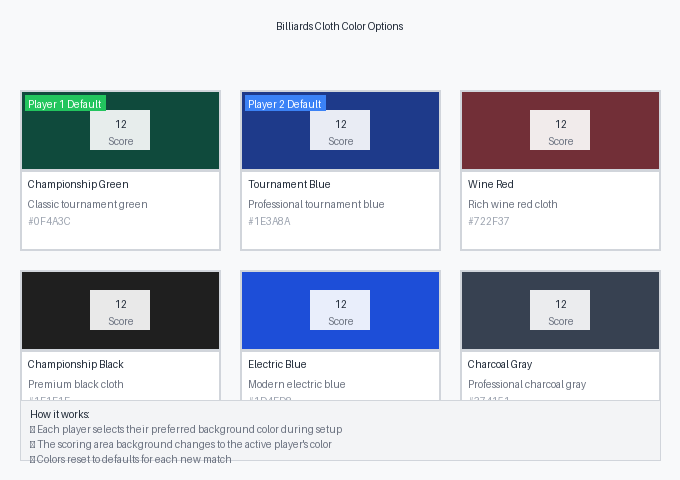
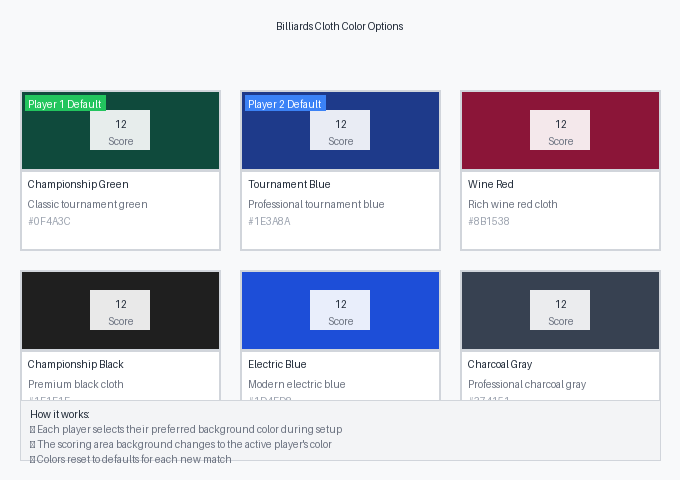
Refine color options to provide a more visually appealing user experience
Updates color values and names in `BILLIARDS_COLORS` and `create_color_swatch.py` to better represent desired hues.

Replit-Commit-Author: Agent
Replit-Commit-Session-Id: 3eaa321e-810c-41b9-8277-ba1a53f38eec
Replit-Commit-Screenshot-Url: https://storage.googleapis.com/screenshot-production-us-central1/dbe2d108-b826-4376-b368-f9c11fb92b15/03f78a05-2989-4302-91f9-ec64860295be.jpg

Changed region(s): [[0.6794, 0.1875, 0.9882, 0.375], [0.6794, 0.4375, 0.7412, 0.4688]]

diff --git a/client/src/components/billiards-color-swatch.tsx b/client/src/components/billiards-color-swatch.tsx
@@ -13,14 +13,14 @@ export const BILLIARDS_COLORS = [
     description: "Professional tournament blue"
   },
   {
-    name: "Burgundy Red",
-    value: "#7C2D12", 
-    description: "Rich burgundy cloth"
+    name: "Wine Red",
+    value: "#8B1538", 
+    description: "Rich wine red cloth"
   },
   {
-    name: "Camel Tan",
-    value: "#A16207",
-    description: "Vintage camel brown"
+    name: "Championship Black",
+    value: "#1F1F1F",
+    description: "Premium black cloth"
   },
   {
     name: "Electric Blue",
@@ -28,9 +28,9 @@ export const BILLIARDS_COLORS = [
     description: "Modern electric blue"
   },
   {
-    name: "Championship Purple",
-    value: "#6B21A8",
-    description: "Premium purple cloth"
+    name: "Charcoal Gray",
+    value: "#374151",
+    description: "Professional charcoal gray"
   }
 ] as const;
 

diff --git a/create_color_swatch.py b/create_color_swatch.py
@@ -5,7 +5,7 @@ import os
 colors = [
     {"name": "Championship Green", "hex": "#0F4A3C", "desc": "Classic tournament green", "default": "Player 1 Default"},
     {"name": "Tournament Blue", "hex": "#1E3A8A", "desc": "Professional tournament blue", "default": "Player 2 Default"},
-    {"name": "Wine Red", "hex": "#722F37", "desc": "Rich wine red cloth", "default": ""},
+    {"name": "Wine Red", "hex": "#8B1538", "desc": "Rich wine red cloth", "default": ""},
     {"name": "Championship Black", "hex": "#1F1F1F", "desc": "Premium black cloth", "default": ""},
     {"name": "Electric Blue", "hex": "#1D4ED8", "desc": "Modern electric blue", "default": ""},
     {"name": "Charcoal Gray", "hex": "#374151", "desc": "Professional charcoal gray", "default": ""}
